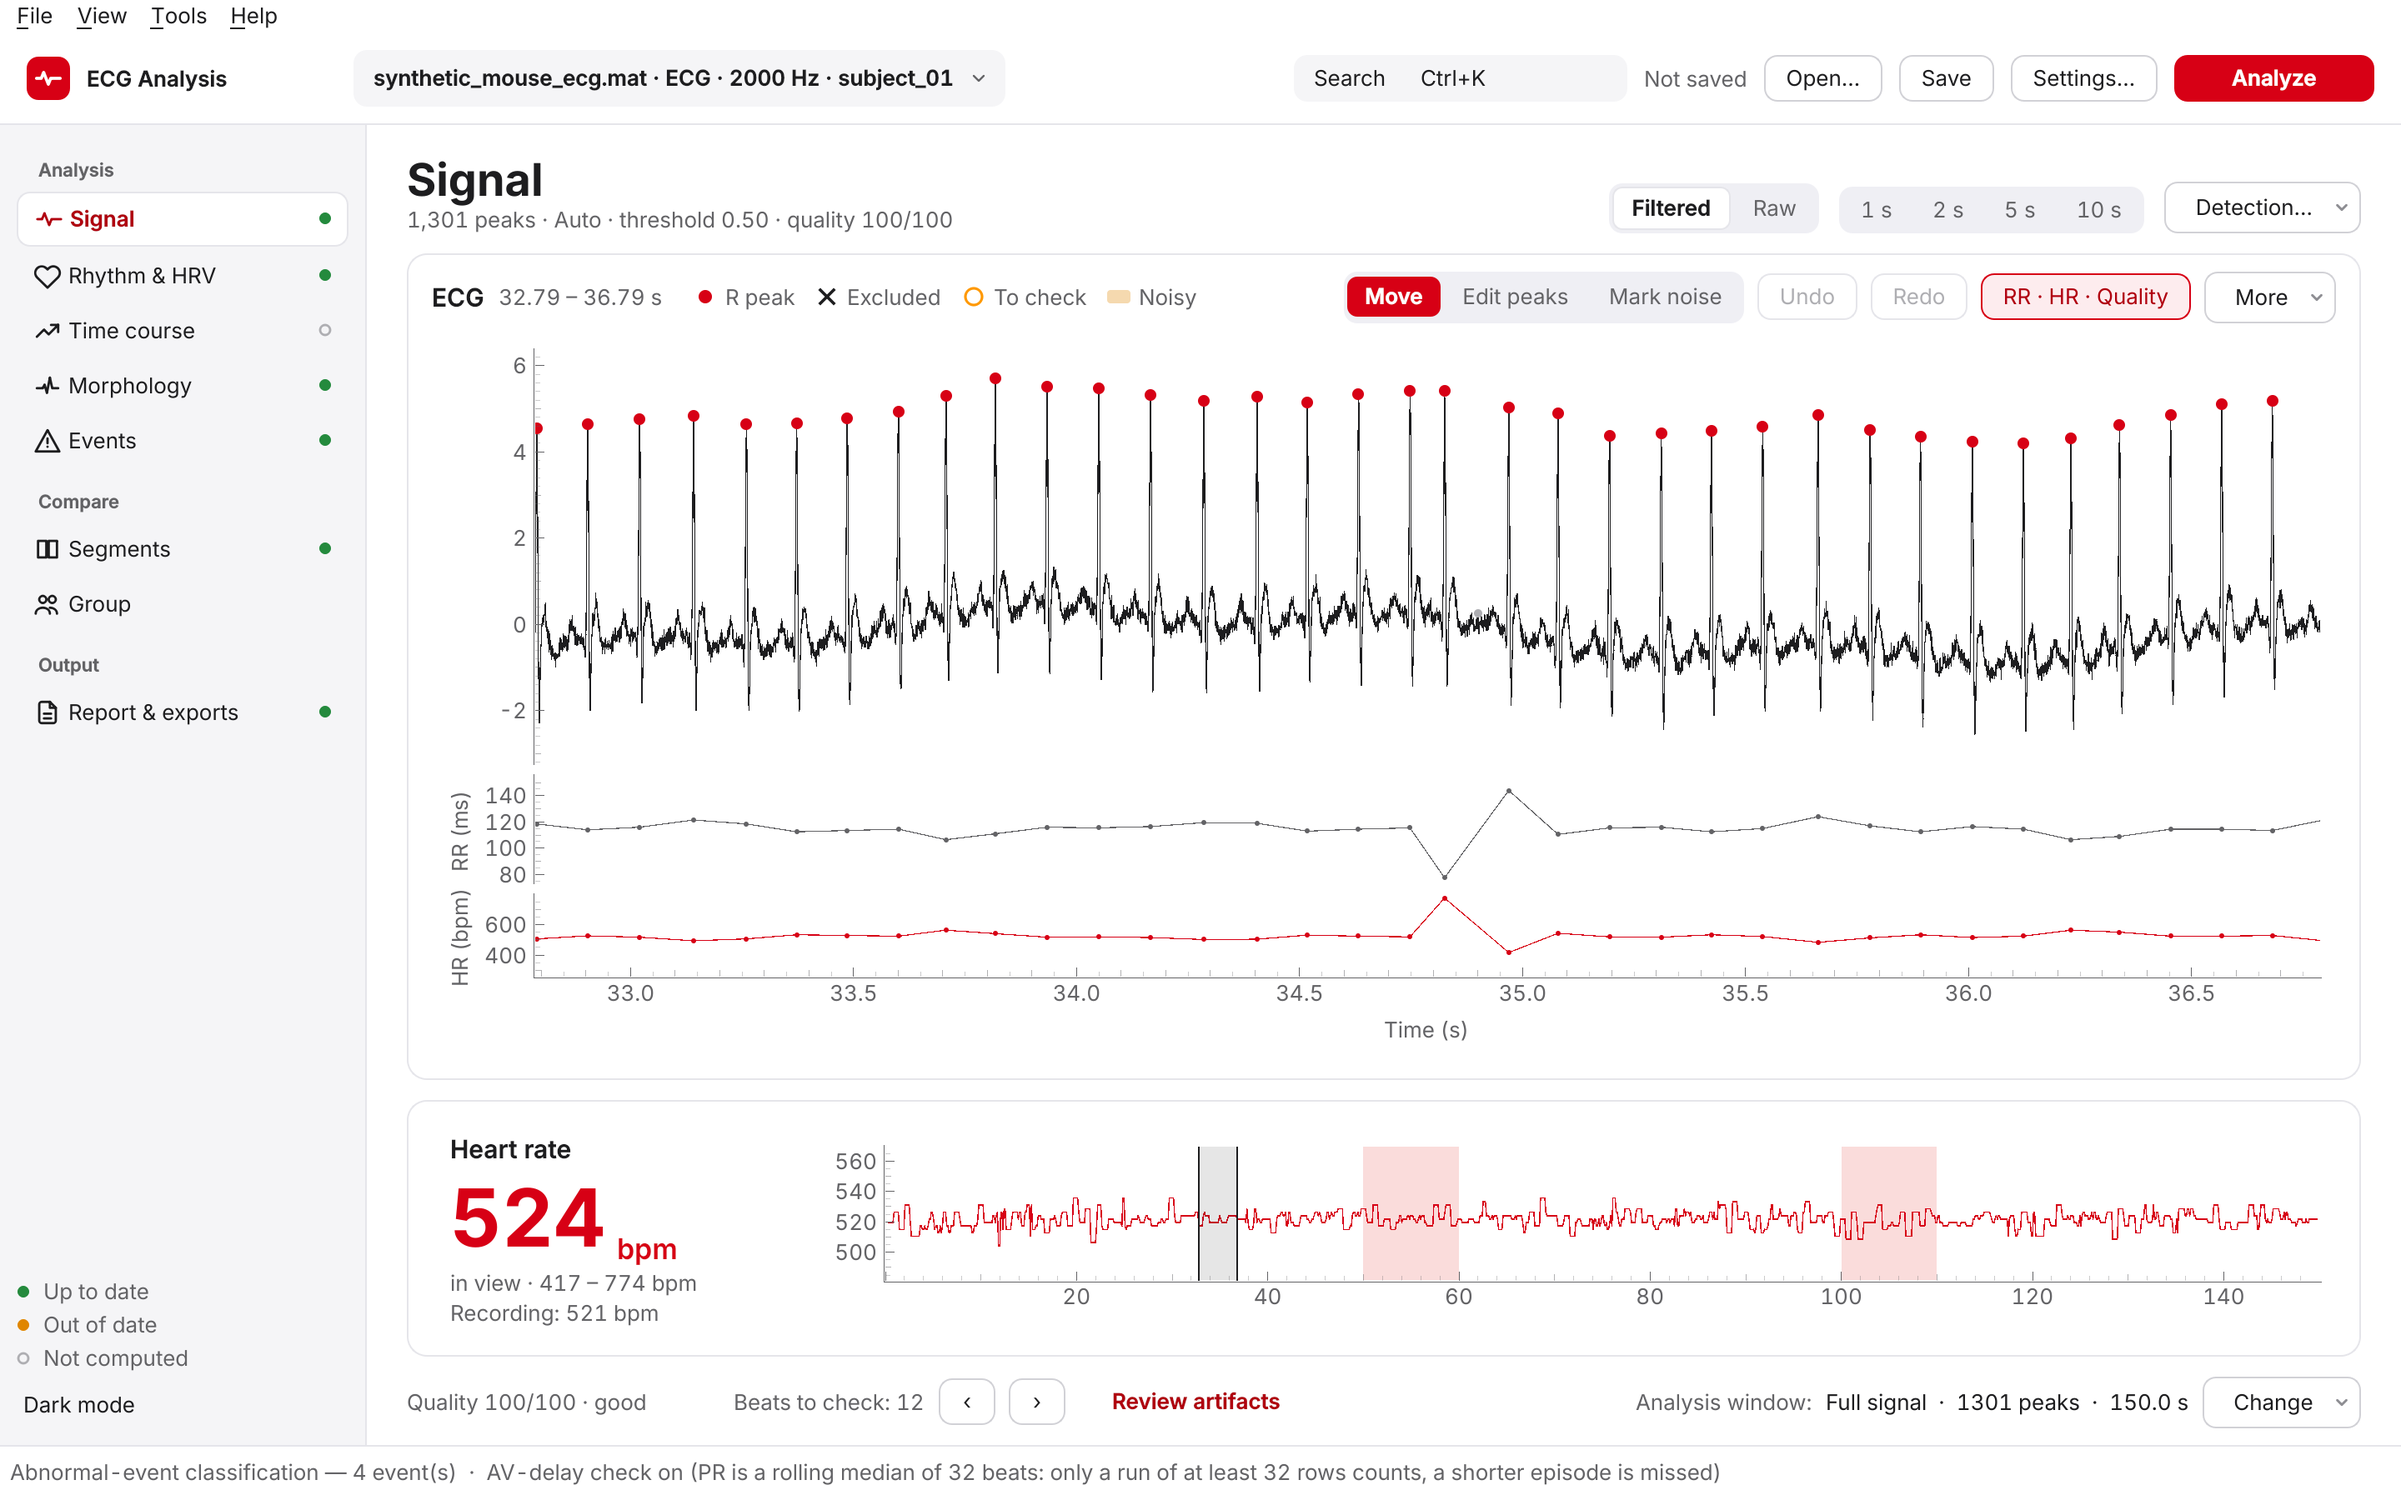
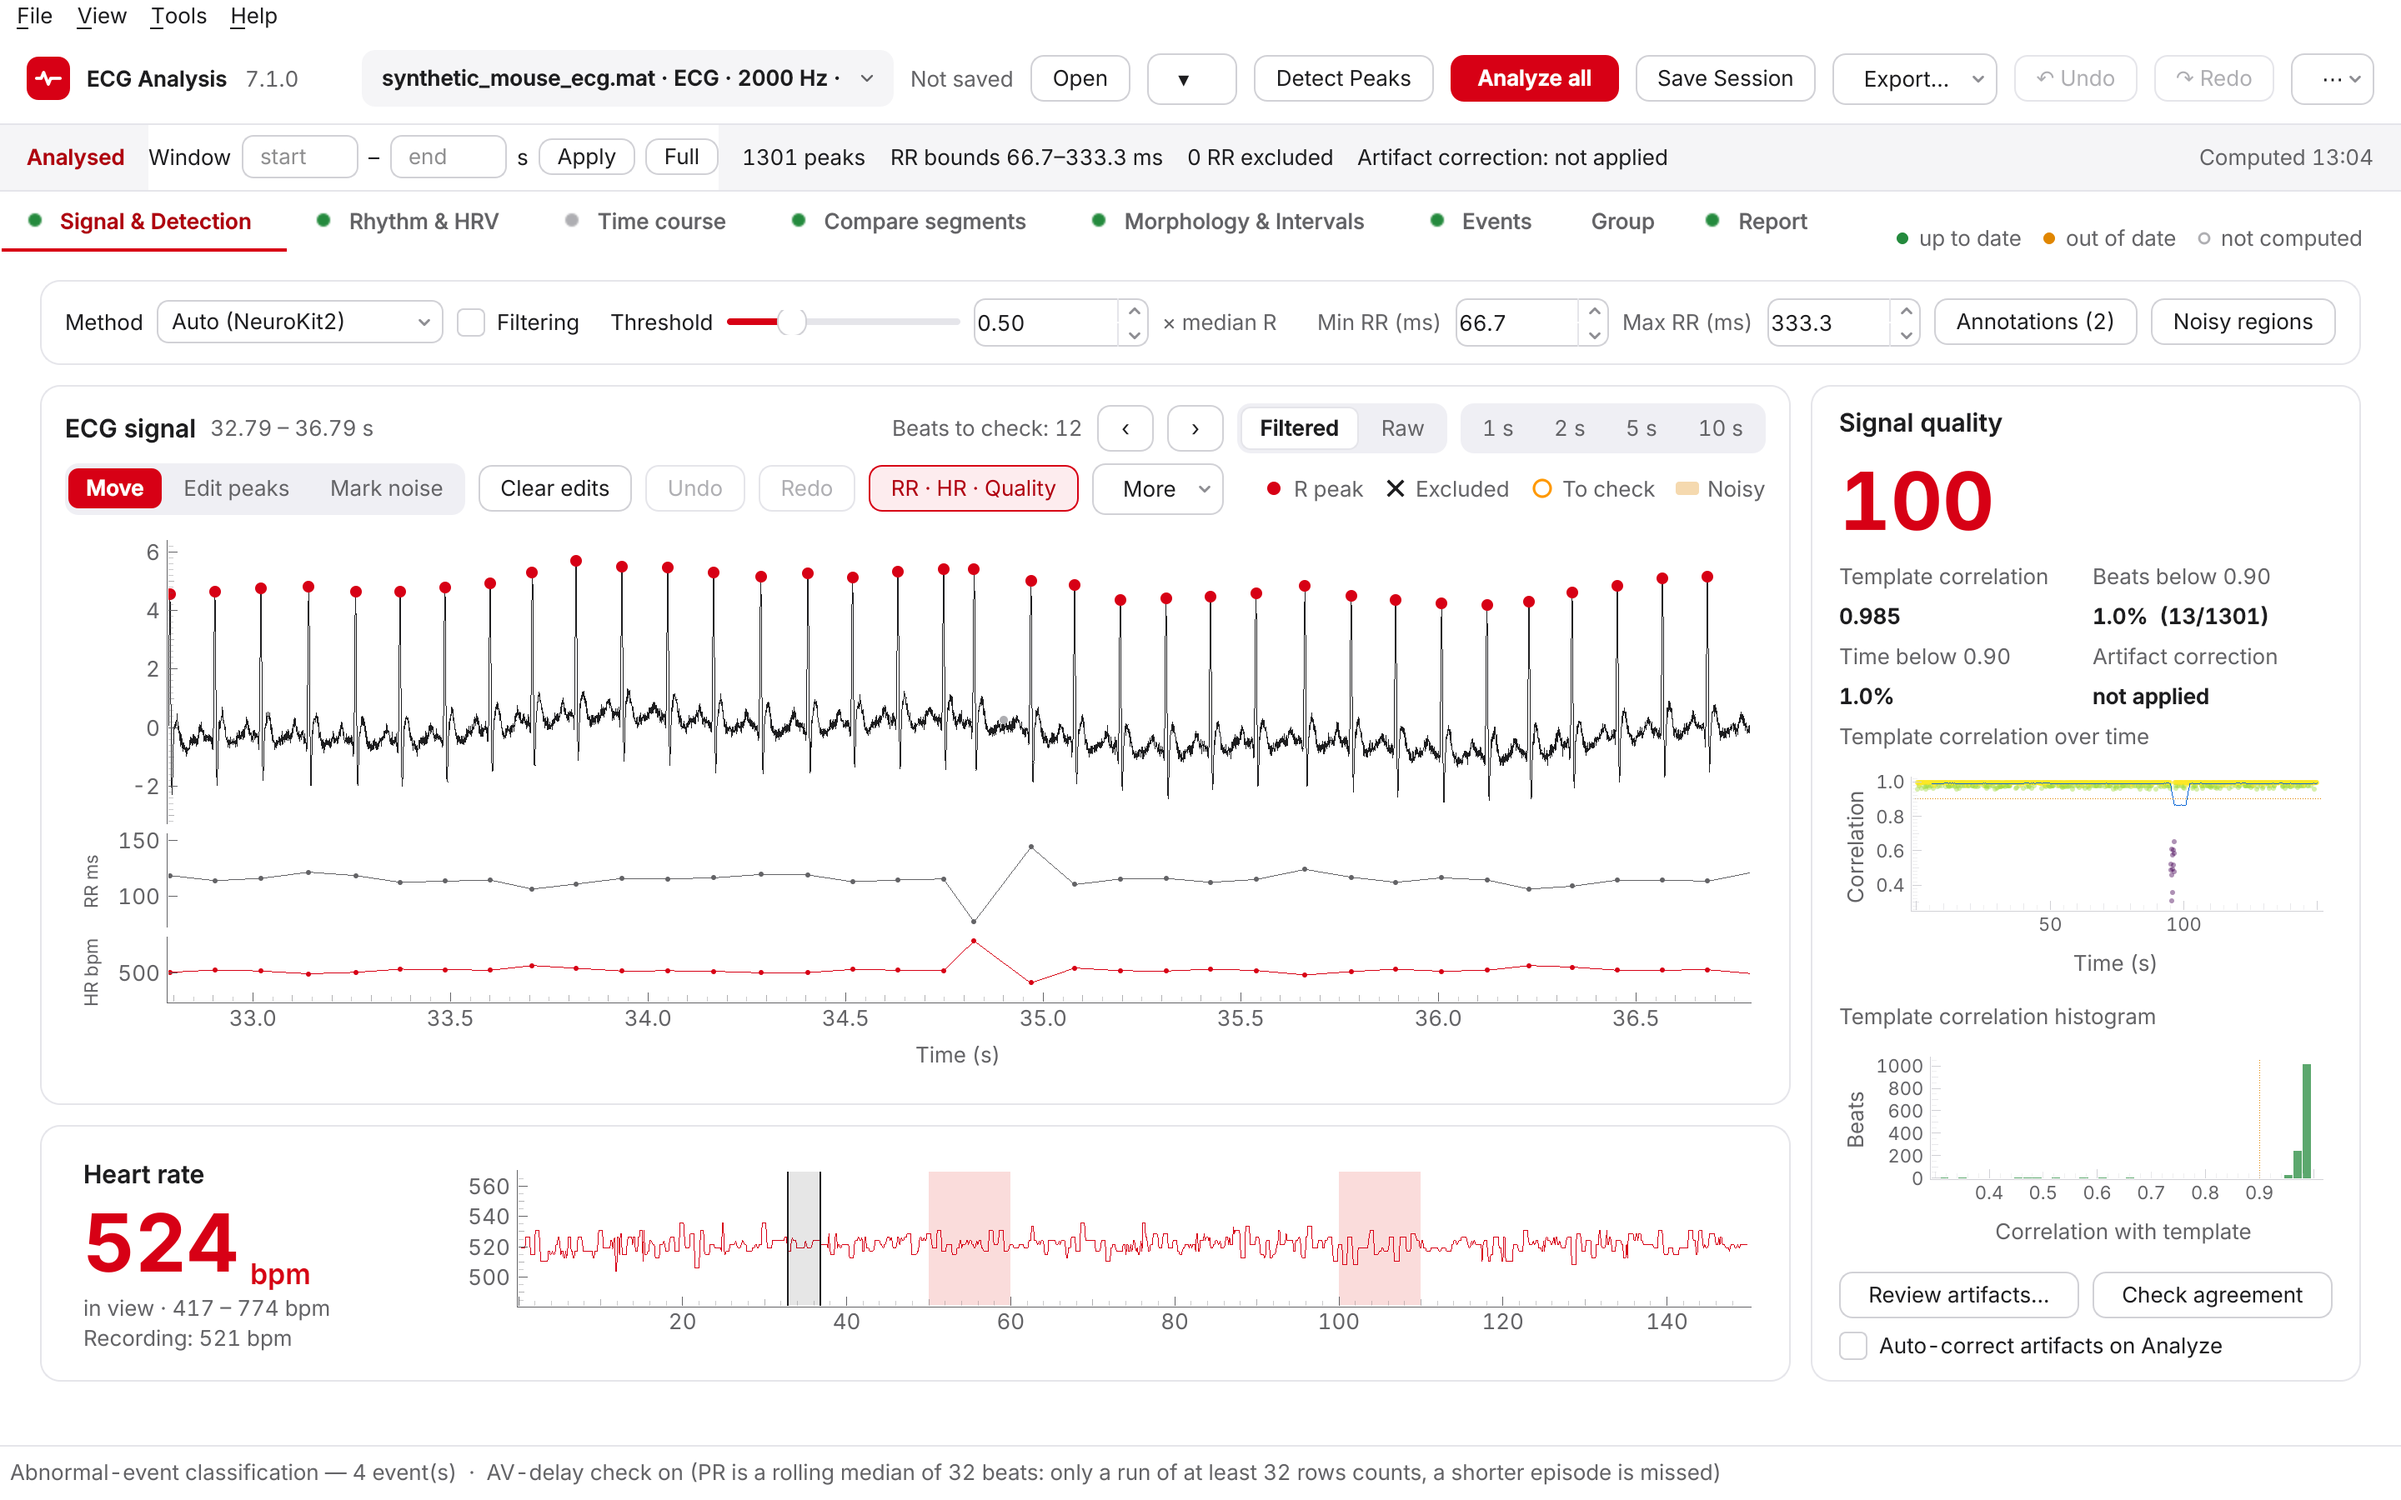
Charts fit the window at 1440x900, readable small axes, export fix, new screenshots
- Rhythm & HRV: SD1 / SD2 on one line each beside the Poincaré, so the two
  chart rows fit the visible height of a 1440x900 window.
- Small charts (RR / HR strip lanes, SampEn): at most two or three tick
  labels (few_ticks), short lane titles; a top margin on every chart so the
  top tick label is no longer cut.
- Beat distributions export: bins and the orange warning count every scored
  beat (beat_matrix only keeps the ghost traces).
- docs/screenshots retaken with the current interface.

Claude-Session: https://claude.ai/code/session_01V7ryGS9RTVhctPPdL9TwFS

diff --git a/ecg/qt/widgets/rhythm_charts.py b/ecg/qt/widgets/rhythm_charts.py
@@ -46,6 +46,20 @@ def robust_range(values: np.ndarray, pad_frac: float = 0.08,
     return lo - pad, hi + pad
 
 
+def few_ticks(axis: "pg.AxisItem", lo: float, hi: float, n: int = 3) -> None:
+    """At most about *n* labelled ticks on *axis* for the range lo..hi (a
+    "nice" step: 1, 2 or 5 × 10^k): pyqtgraph's own spacing crowds the
+    labels of a chart only a few tens of pixels high."""
+    span = float(hi - lo)
+    if not np.isfinite(span) or span <= 0:
+        axis.setTickSpacing()                     # back to automatic
+        return
+    raw = span / max(n, 1)
+    mag = 10 ** np.floor(np.log10(raw))
+    step = next(m * mag for m in (1, 2, 5, 10) if m * mag >= raw)
+    axis.setTickSpacing(step, step)
+
+
 def _alpha(color: str, a: int) -> QtGui.QColor:
     c = QtGui.QColor(color)
     c.setAlpha(a)
@@ -62,6 +76,8 @@ class _Chart(pg.PlotWidget):
         self.getPlotItem().getViewBox().setMouseEnabled(x=False, y=False)
         self._placeholder = pg.TextItem("", anchor=(0.5, 0.5))
         self.addItem(self._placeholder, ignoreBounds=True)
+        # Room above the plot: the top tick label was cut in half.
+        self.getPlotItem().setContentsMargins(2, 8, 6, 2)
 
     def sizeHint(self) -> QtCore.QSize:
         # A modest wish: pyqtgraph asks for 600 px, which made every page of
@@ -122,7 +138,7 @@ class RhythmCharts(QtCore.QObject):
         # Poincaré, square, and the entropy under it.
         self.poincare = _Chart()
         self.poincare.setAspectLocked(True)
-        self.poincare.setMinimumHeight(150)
+        self.poincare.setMinimumHeight(95)
         self.poincare.setLabel("bottom", "RRₙ (ms)")
         self.poincare.setLabel("left", "RRₙ₊₁ (ms)")
         self.p_identity = pg.PlotDataItem()
@@ -131,7 +147,7 @@ class RhythmCharts(QtCore.QObject):
         for item in (self.p_identity, self.p_points, self.p_ellipse):
             self.poincare.addItem(item)
         self.mse = _Chart()
-        self.mse.setMinimumHeight(70)
+        self.mse.setMinimumHeight(85)
         self.mse.setLabel("bottom", "Scale factor")
         self.mse.setLabel("left", "SampEn")
         self.m_line = pg.PlotDataItem(symbol="o", symbolSize=5)
@@ -277,7 +293,10 @@ class RhythmCharts(QtCore.QObject):
         attrs = getattr(nl, "attrs", {}) if nl is not None else {}
         scales, values = attrs.get("mse_scales") or [], attrs.get("mse_values") or []
         if scales and values:
-            self.m_line.setData(np.asarray(scales, float), np.asarray(values, float))
+            vals = np.asarray(values, float)
+            self.m_line.setData(np.asarray(scales, float), vals)
+            if np.isfinite(vals).any():
+                few_ticks(self.mse.getAxis("left"), 0.0, float(np.nanmax(vals)), 2)
             self.mse.say("")
         else:
             self.m_line.setData([], [])

diff --git a/ecg/app/plot_controller.py b/ecg/app/plot_controller.py
@@ -2282,18 +2282,20 @@ class PlotController:
         mean_corr = float(np.nanmean(beat_corr))
 
         n_bad = int(np.sum(beat_corr < 0.90)) if beat_corr is not None else 0
+        # Every scored beat: beat_matrix is shrunk to the ghost traces.
+        n_scored = max(len(beat_corr), 1)
 
         def draw_distributions(fig):
             ax_amp, ax_corr = fig.subplots(1, 2)
             for ax in (ax_amp, ax_corr):
                 style_axes(ax)
-            ax_amp.hist(peak_amps, bins=min(50, max(10, n_beats // 4)),
+            ax_amp.hist(peak_amps, bins=min(50, max(10, n_scored // 4)),
                         color=BLUE, alpha=0.75, edgecolor="none")
             ax_amp.set_xlabel("R-peak amplitude (norm.)")
             ax_amp.set_ylabel("Count")
             ax_amp.set_title("R-peak amplitude", loc="left")
 
-            bins_corr = min(40, max(10, n_beats // 4))
+            bins_corr = min(40, max(10, n_scored // 4))
             ax_corr.hist(beat_corr, bins=bins_corr,
                          color=GREEN, alpha=0.75, edgecolor="none")
             ax_corr.axvline(mean_corr, color=RED, lw=1.5, ls="--",
@@ -2304,13 +2306,13 @@ class PlotController:
             ax_corr.set_ylabel("Count")
             title = f"Beat Morphology  ({n_bad} beats < 0.90)"
             ax_corr.set_title(title, loc="left",
-                              color=(ORANGE if n_bad > n_beats * 0.1 else PLOT["text"]))
+                              color=(ORANGE if n_bad > n_scored * 0.1 else PLOT["text"]))
             ax_corr.legend(framealpha=0)
 
         self._on_screen("beat_dist", {"peak_amps": np.asarray(peak_amps, dtype=float),
                                       "beat_corr": np.asarray(beat_corr, dtype=float),
                                       "mean_corr": mean_corr, "n_bad": n_bad,
-                                      "n_beats": n_beats})
+                                      "n_beats": n_scored})
         self.app._slots["beat_dist"].update(draw_distributions)
 
     def _on_screen(self, name: str, data: Any) -> None:

diff --git a/ecg/qt/widgets/ecg_plot.py b/ecg/qt/widgets/ecg_plot.py
@@ -26,6 +26,7 @@ import pyqtgraph as pg
 from PySide6 import QtCore, QtGui, QtWidgets
 
 from ecg.qt import theme
+from ecg.qt.widgets.rhythm_charts import few_ticks
 
 # Two seconds: about 16 beats of a mouse at 500 bpm, each QRS readable (ten
 # seconds packed some 85 beats into the view).
@@ -98,14 +99,16 @@ class EcgPlot(QtWidgets.QWidget):
         # share it instead of repeating it, which also spares three axes to
         # repaint on every move of the view.
         self.strip = []
-        for r, label in ((1, "RR (ms)"), (2, "HR (bpm)"), (3, "Quality")):
+        # Short titles, small: a lane is ~60 px high and the full ones ran
+        # into each other.
+        for r, label in ((1, "RR ms"), (2, "HR bpm"), (3, "Corr.")):
             p = self.view.addPlot(row=r, col=0)
             p.setXLink(self.detail)
             p.setMouseEnabled(x=False, y=False)
             p.setMenuEnabled(False)
-            p.setLabel("left", label)
+            p.setLabel("left", label, **{"font-size": "8pt"})
             p.hideAxis("bottom")
-            p.getAxis("left").setTickDensity(0.6)
+            p.getAxis("left").setTickDensity(0.35)
             p.hideButtons()
             p.setMinimumHeight(STRIP_MIN_PX)
             p.setMaximumHeight(STRIP_MAX_PX)
@@ -309,6 +312,7 @@ class EcgPlot(QtWidgets.QWidget):
             half = float(np.max(np.abs(v - c))) or max(abs(c) * 0.05, 1.0)
             half *= 1.08
             p.setYRange(c - half, c + half, padding=0)
+            few_ticks(p.getAxis("left"), c - half, c + half, 2)
         # Quality (template correlation, up to 1): from a little under the
         # lowest beat in view, at most 0.85, so the 0.90 line and the beats
         # near 1 are both readable.

diff --git a/ecg/qt/tabs/rhythm_tab.py b/ecg/qt/tabs/rhythm_tab.py
@@ -165,17 +165,21 @@ class RhythmTab(QtWidgets.QScrollArea):
         pcl.addWidget(host.lbl_nonlin_status)
         prow = QtWidgets.QHBoxLayout()
         prow.addWidget(self.charts.poincare, 3)
-        stats = QtWidgets.QVBoxLayout()
+        # Name and value on one line: stacked, the three took the height the
+        # chart rows need to fit the window.
+        stats = QtWidgets.QGridLayout()
+        stats.setVerticalSpacing(6)
         self.lbl_sd = {}
-        for key, label in (("sd1", "SD1"), ("sd2", "SD2"), ("ratio", "SD1 / SD2")):
+        for i, (key, label) in enumerate((("sd1", "SD1"), ("sd2", "SD2"),
+                                          ("ratio", "SD1 / SD2"))):
             name = QtWidgets.QLabel(label)
             name.setProperty("muted", True)
             val = QtWidgets.QLabel("—")
-            val.setProperty("role", "value")
-            stats.addWidget(name)
-            stats.addWidget(val)
+            val.setStyleSheet("font-weight: 600;")
+            stats.addWidget(name, i, 0)
+            stats.addWidget(val, i, 1)
             self.lbl_sd[key] = val
-        stats.addStretch(1)
+        stats.setRowStretch(3, 1)
         prow.addLayout(stats, 1)
         pcl.addLayout(prow, 3)
         pcl.addWidget(self.charts.mse, 1)

diff --git a/ecg/qt/widgets/dist_charts.py b/ecg/qt/widgets/dist_charts.py
@@ -179,8 +179,7 @@ class BeatDistCharts(_Pair):
         d = self._data
         if d is None:
             return
-        # Every scored beat (n_beats counts the ghost traces only).
-        n = max(len(d["beat_corr"]), 1)
+        n = d["n_beats"]                           # every scored beat
         amps = d["peak_amps"][np.isfinite(d["peak_amps"])]
         corr = d["beat_corr"][np.isfinite(d["beat_corr"])]
         self.left.say("")
